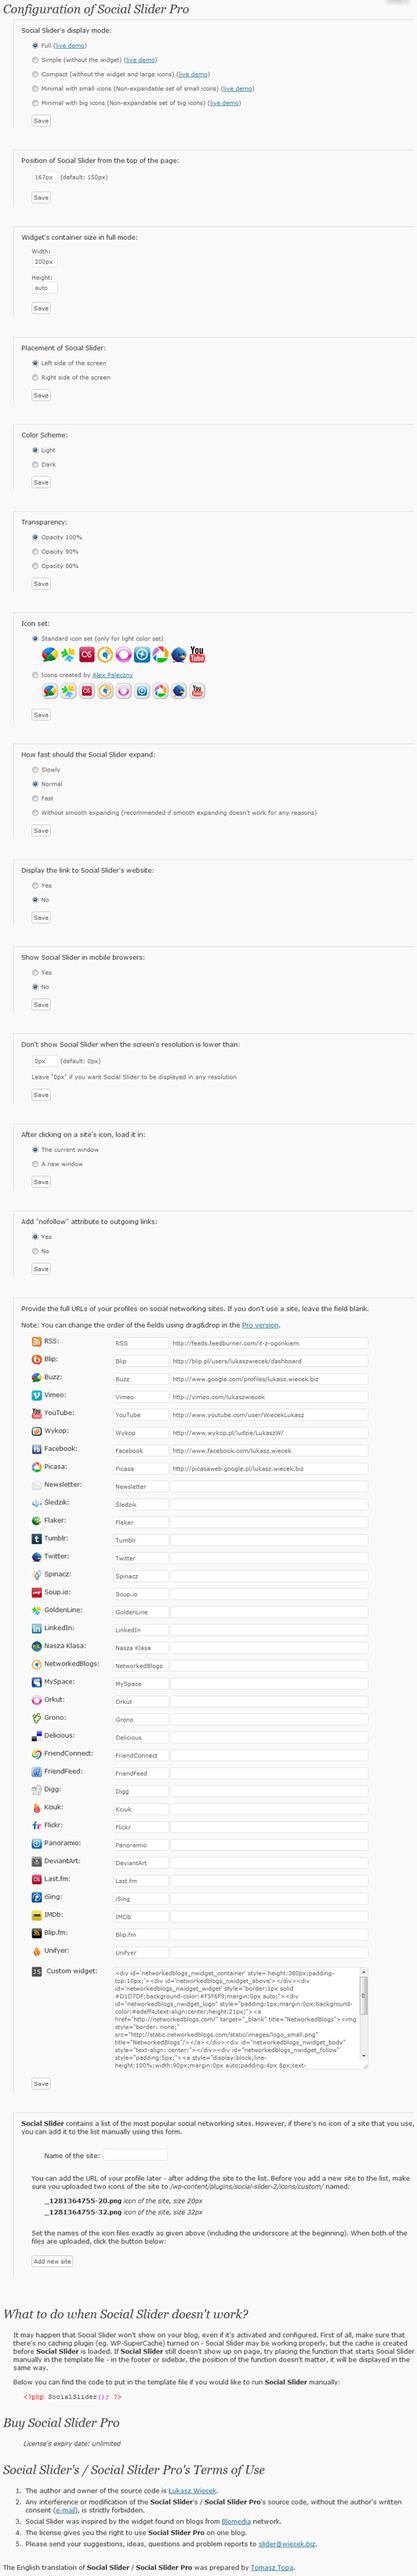
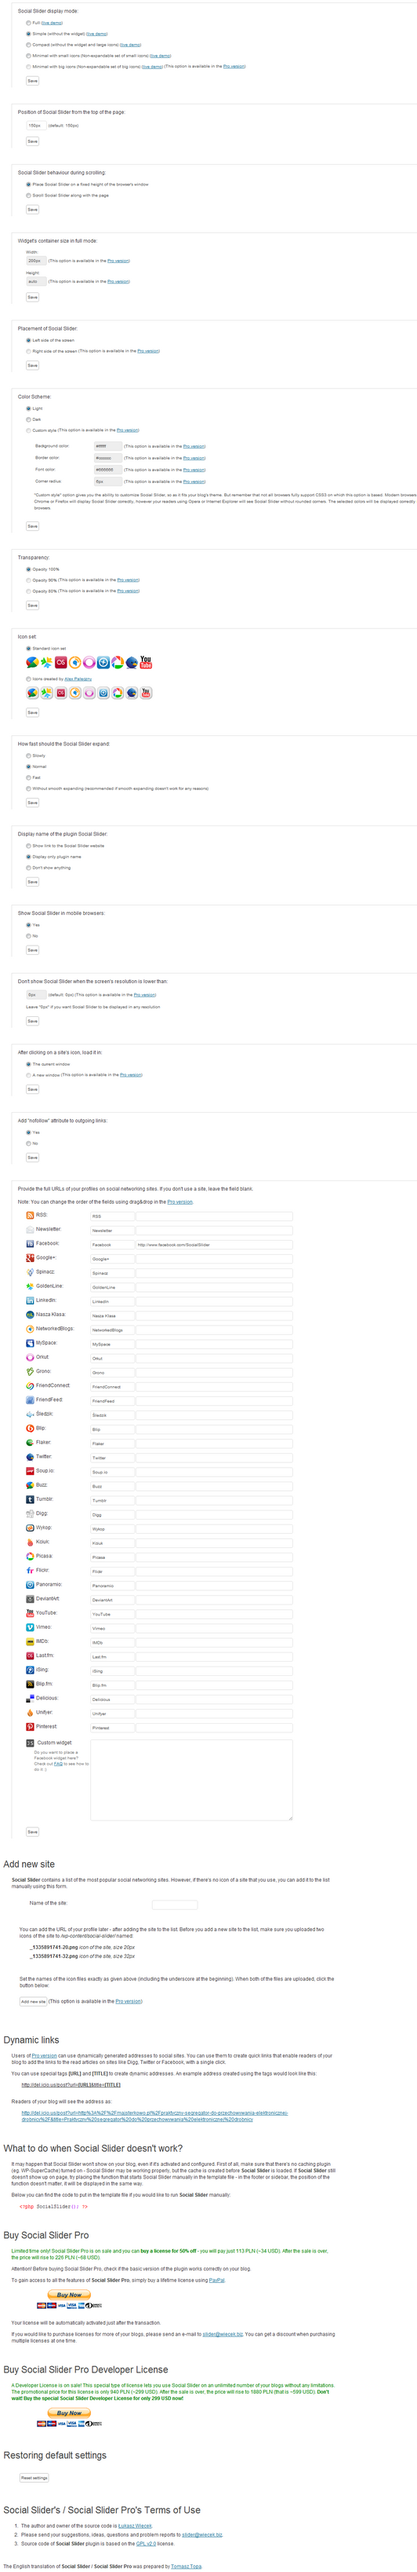
Now you can show off the plugin name in the free version.
git-svn-id: https://plugins.svn.wordpress.org/social-slider/trunk@538614 b8457f37-d9ea-0310-8a92-e5e31aec5664

diff --git a/social-slider.php b/social-slider.php
@@ -3,13 +3,13 @@
 Plugin Name: Social Slider
 Plugin URI: http://xn--wicek-k0a.pl/projekty/social-slider
 Description: This plugin adds links to your social networking sites' profiles in a box floating at the left side of the screen.
-Version: 7.1.7
+Version: 7.2.0
 Author: Łukasz Więcek
 Author URI: http://majsterkowo.pl/
 */
 
 $socialslider			= "social-slider";
-$socialslider_wersja	= "7.1.7";
+$socialslider_wersja	= "7.2.0";
 $socialslider_baza		= str_replace("https://", "http://", get_bloginfo('wpurl'));
 $socialslider_katalog	= WP_PLUGIN_URL .'/'.$socialslider;
 
@@ -550,7 +550,7 @@ function SocialSliderUstawienia()
 					<p><?php _e("Display name of the plugin Social Slider:", 'social-slider') ?></p>
 					<p class="radio"><input type="radio" class="text" value="tak" name="socialslider_link" id="socialslider_link_tak"<?php if(get_option('socialslider_link')=="tak") {echo " checked";} ?>/> <label for="socialslider_link_tak"><?php _e("Show link to the Social Slider website", 'social-slider') ?></label></p>
 					<p class="radio"><input type="radio" class="text" value="text" name="socialslider_link" id="socialslider_link_text"<?php if(get_option('socialslider_link')=="text" OR !get_option('socialslider_link')) {echo " checked";} ?>/> <label for="socialslider_link_text"><?php _e("Display only plugin name", 'social-slider') ?></label></p>
-					<p class="radio"><input type="radio" class="text" value="nie" name="socialslider_link" id="socialslider_link_nie"<?php if(get_option('socialslider_link')=="nie"  AND empty($socialslider_disable)) {echo " checked";} echo $socialslider_disable; ?>/> <label for="socialslider_link_nie"><?php _e("Don't show anything", 'social-slider') ?> <?php echo $socialslider_only; ?></label></p>
+					<p class="radio"><input type="radio" class="text" value="nie" name="socialslider_link" id="socialslider_link_nie"<?php if(get_option('socialslider_link')=="nie") {echo " checked";} ?>/> <label for="socialslider_link_nie"><?php _e("Don't show anything", 'social-slider') ?></label></p>
 					<input type="submit" name="SocialSliderZapisz" value="<?php _e("Save", 'social-slider') ?>" style="margin: 5px 0 5px 20px;" />
 				</div>
 
